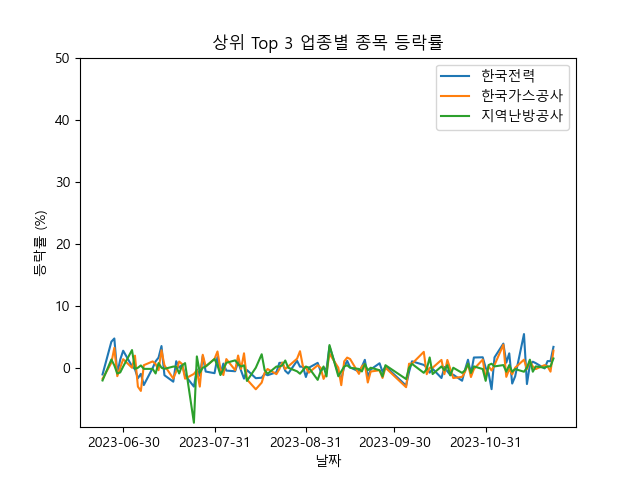
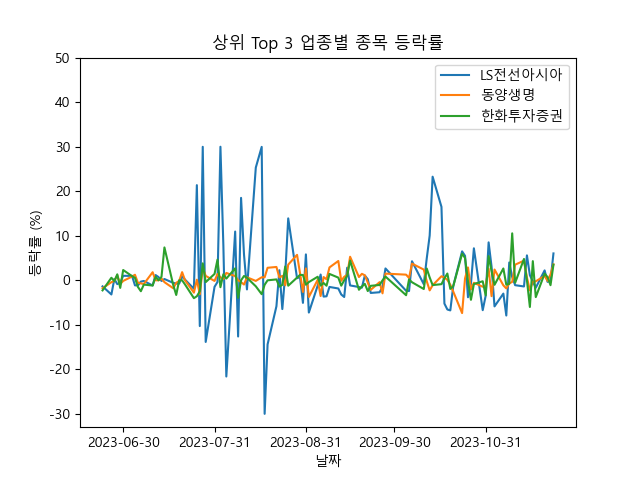
[Ver0.3]임시 백업

diff --git a/accounts/views.py b/accounts/views.py
@@ -486,7 +486,7 @@ def stock_compare(request):
         ax.set_xticklabels([date.strftime('%Y-%m-%d') for date in date_range])
 
         # y축 설정: 퍼센트 단위로 표시, 간격은 10
-        ax.set_yticks(range(0, 51, 10))
+        ax.set_yticks(range(-30, 51, 10))  # -30%부터 50%까지 10% 간격으로 설정
         ax.set_ylabel('등락률 (%)')
 
         ax.set_xlabel('날짜')
